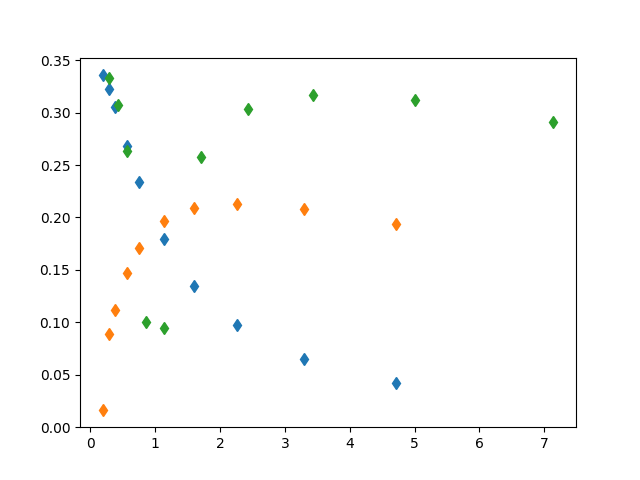
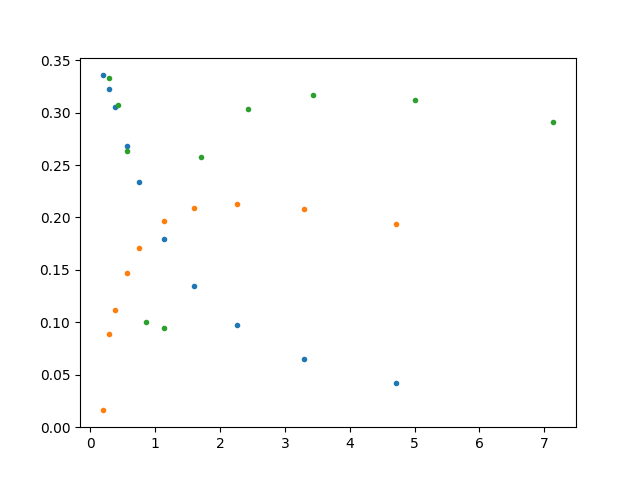
modified p2 plots

diff --git a/physik_261-661/physik_361/234/auswertung.py b/physik_261-661/physik_361/234/auswertung.py
@@ -94,7 +94,7 @@ for i in range(0,15):
     d_x = np.array([0,d_Spannung_Widerstand[i]*np.cos(np.arctan(d_Spannung_Kondensator[i]/d_Spannung_Widerstand[i])),187*1e-3])
     d_y = np.array([0,d_Spannung_Widerstand[i]*np.sin(np.arctan(d_Spannung_Kondensator[i]/d_Spannung_Widerstand[i])),0])
     d_delt_Spannung = np.array([0,1e-3,0])
-#    plt.errorbar(d_x,d_y,d_delt_Spannung)
+#    plt.errorbar(d_x,d_y,d_delt_Spannung,marker=".")
 
 angle = np.linspace(0,2*np.pi,150)
 radius = 0.187/2
@@ -138,9 +138,9 @@ delt_A_Hochpass = delt_e_Ua/e_Ue
 A_Sperrfilter = e_Ua_Sperrfilter/e_Ue
 delt_A_Sperrfilter = delt_e_Ua/e_Ue
 
-#plt.errorbar(Omega_Hoch_Tief,A_Tiefpass,delt_A_Tiefpass,ls="",marker="d")
-#plt.errorbar(Omega_Hoch_Tief,A_Hochpass,delt_A_Hochpass,ls="",marker="d")
-#plt.errorbar(Omega_Sperrfilter,A_Sperrfilter,delt_A_Sperrfilter,ls="",marker="d")
+#plt.errorbar(Omega_Hoch_Tief,A_Tiefpass,delt_A_Tiefpass,ls="",marker=".")
+#plt.errorbar(Omega_Hoch_Tief,A_Hochpass,delt_A_Hochpass,ls="",marker=".")
+#plt.errorbar(Omega_Sperrfilter,A_Sperrfilter,delt_A_Sperrfilter,ls="",marker=".")
 #plt.savefig('234_e.png')
 #plt.show()
 
@@ -151,9 +151,9 @@ i_Frequenz = np.array([200, 400, 600, 650, 660, 670, 680, 690, 700, 710, 720, 73
 i_U = np.array([0.206, 0.283, 0.718, 1.311, 1.553, 1.871, 2.255, 2.585, 2.616, 2.304, 1.895, 1.547, 1.281, 1.081, 0.580, 0.177, 0.093, 0.059, 0.040, 0.028, 0.020])
 delt_i_U = np.zeros(len(i_U))+1e-3
 
-plt.errorbar(i_Frequenz,i_U,delt_i_U,ls="",marker="d")
+#plt.errorbar(i_Frequenz,i_U,delt_i_U,ls="",marker=".")
 #plt.savefig('234_i.png')
-plt.show()
+#plt.show()
 
 # Rechnung
 #   Messwerte: aufgabeGröße = Rechnung #Einheit
